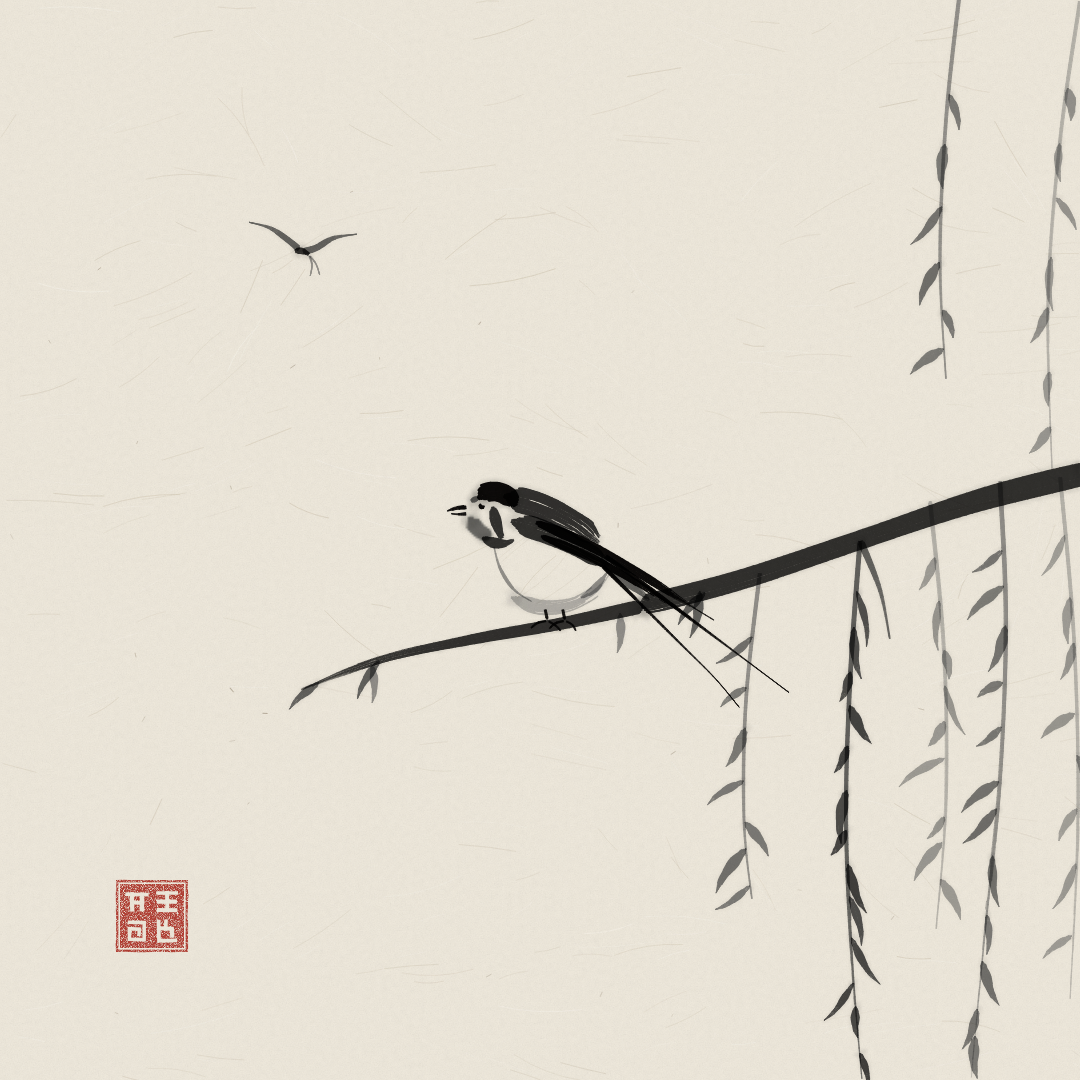
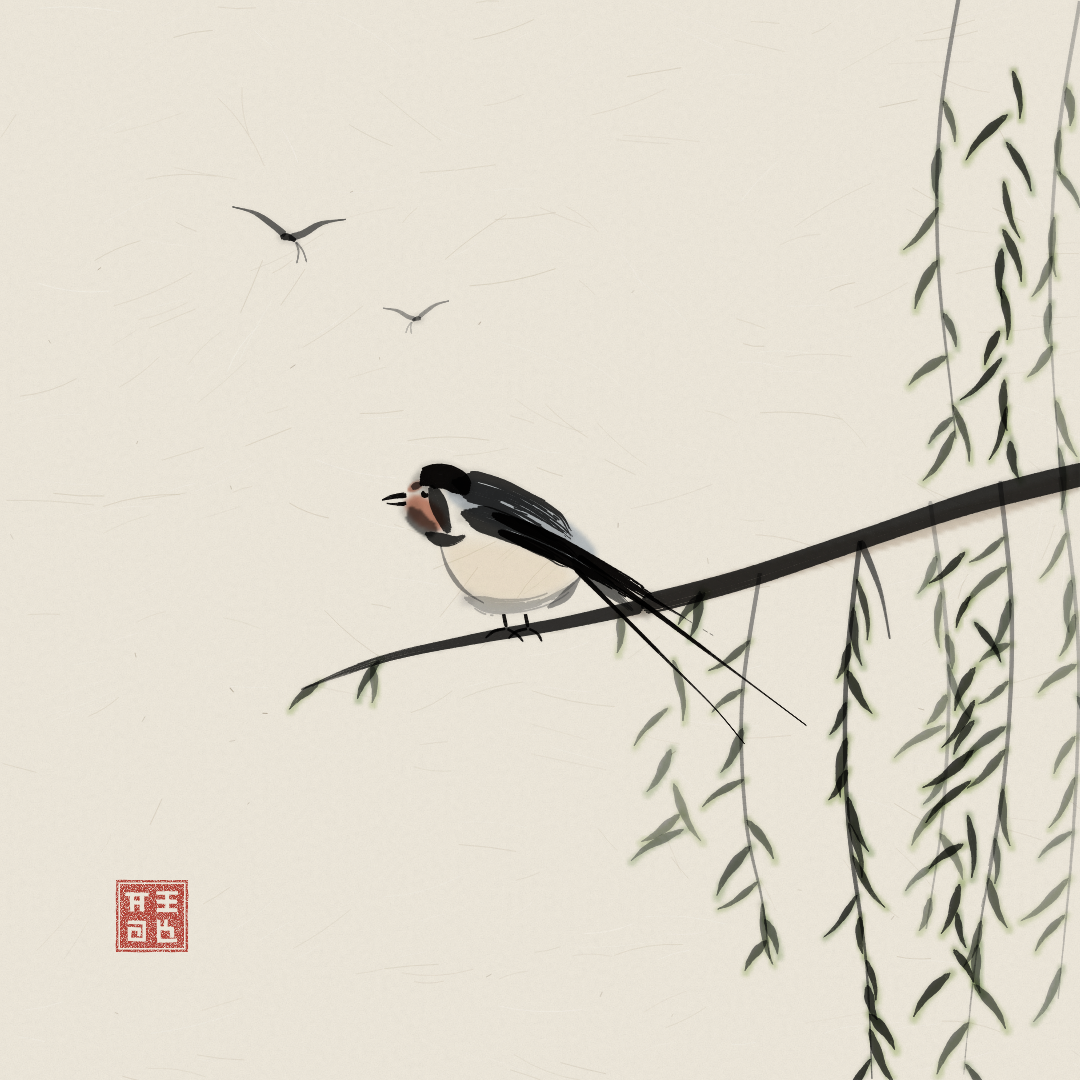
drawings: andorinha, prettier: ink-and-colour washes, a larger swallow, a fuller willow, a pair on the wing
Claude-Session: https://claude.ai/code/session_016tJsM9NHxJyZt7yjmkR2tb

diff --git a/drawings/andorinha/andorinha.ts b/drawings/andorinha/andorinha.ts
@@ -1,5 +1,6 @@
 import { Gfx, rng, fractal, type Ctx, type Env, type Medium, type P } from "./core";
 import type { Film } from "./film";
+import { bounds, smooth } from "./gallery";
 import { brush, JIAO, NONG, ZHONG, DAN, QING, type Brush } from "./sumiEKit";
 
 // ANDORINHA NO SALGUEIRO · sumi-e (ink on xuan paper), one still.
@@ -13,6 +14,9 @@ import { brush, JIAO, NONG, ZHONG, DAN, QING, type Brush } from "./sumiEKit";
 // is the seal); a dark breast band; pale buff underparts; long, pointed folded wings whose tips
 // cross past the rump; a deeply forked tail whose outer streamers run well beyond the wingtips;
 // tiny legs, short toes. In flight: scythe wings swept back, the fork open.
+// COLOUR: ink-and-colour (淡彩), the way bird-and-flower painters touch in colour: pale washes
+// laid loosely off the ink, never filling a line: chestnut on the throat and brow, a breath of
+// steel blue on the back's gloss, buff on the belly, spring green under the willow leaves.
 // ORDER (the Mustard Seed Garden order): the bough first, then the hanging willow strands
 // behind and in front, the willow leaves in quick pressed flicks, then the bird (beak, eye,
 // head, throat, back, wings, tail, belly, feet), the far swallow, and the seal last.
@@ -48,13 +52,16 @@ const BOUGH: Brush[] = [
 // hanging strands: a long falling stroke each, light ink behind, heavier in front
 type Strand = { ctrl: P[]; w: number; ink: number; seed: number };
 const STRANDS: Strand[] = [
-  { ctrl: [[1000, 480], [1006, 620], [1000, 780], [984, 940], [970, 1090]], w: 4, ink: DAN, seed: 40 },
-  { ctrl: [[930, 500], [944, 650], [946, 800], [936, 930]], w: 3.6, ink: QING, seed: 41 },
-  { ctrl: [[1060, 476], [1074, 640], [1078, 820], [1070, 1000]], w: 3.4, ink: QING, seed: 42 },
-  { ctrl: [[860, 540], [850, 680], [846, 820], [852, 960], [862, 1080]], w: 4.4, ink: ZHONG, seed: 43 },
-  { ctrl: [[760, 572], [746, 700], [744, 820], [752, 900]], w: 3.6, ink: DAN, seed: 44 },
-  { ctrl: [[1080, 0], [1060, 140], [1048, 300], [1052, 470]], w: 3.4, ink: QING, seed: 45 },
-  { ctrl: [[960, -10], [946, 120], [940, 260], [946, 380]], w: 3.4, ink: DAN, seed: 46 },
+  { ctrl: [[1000, 480], [1012, 620], [1004, 780], [978, 940], [962, 1090]], w: 4, ink: DAN, seed: 40 },
+  { ctrl: [[930, 500], [948, 650], [944, 800], [926, 930]], w: 3.6, ink: QING, seed: 41 },
+  { ctrl: [[1060, 476], [1078, 640], [1074, 820], [1058, 1000]], w: 3.4, ink: QING, seed: 42 },
+  { ctrl: [[860, 540], [846, 680], [848, 820], [866, 960], [872, 1080]], w: 4.4, ink: ZHONG, seed: 43 },
+  { ctrl: [[760, 572], [742, 700], [746, 820], [762, 900], [770, 960]], w: 3.6, ink: DAN, seed: 44 },
+  { ctrl: [[1080, 0], [1058, 140], [1050, 300], [1060, 470]], w: 3.4, ink: QING, seed: 45 },
+  { ctrl: [[960, -10], [940, 120], [938, 260], [952, 400], [956, 440]], w: 3.4, ink: DAN, seed: 46 },
+  { ctrl: [[1020, -10], [1004, 160], [1000, 330], [1012, 460]], w: 3.8, ink: ZHONG, seed: 47 },
+  { ctrl: [[680, 596], [668, 700], [674, 790], [690, 850]], w: 3, ink: QING, seed: 48 },
+  { ctrl: [[960, 506], [976, 640], [974, 760], [960, 880], [948, 1000]], w: 4, ink: ZHONG, seed: 49 },
 ];
 const strand = (s: Strand): Brush => ({ ctrl: s.ctrl, w: s.w, ink: s.ink, press: [[0, 1], [0.6, 0.8], [1, 0.25]], load: 1, dry: 0.12, edge: 0, split: 0.3, bleed: 0.5, slow: [[0.01, 0.4]], hairs: 8, seed: s.seed });
 // a willow leaf: narrow, lanceolate, one quick press-and-lift hanging off the strand
@@ -70,14 +77,14 @@ const strandLeaves = (s: Strand, count: number, from: number, to: number): Brush
     const t = from + ((to - from) * (i + r() * 0.5)) / count, seg = Math.min(s.ctrl.length - 2, Math.floor(t * (s.ctrl.length - 1))), f = t * (s.ctrl.length - 1) - seg;
     const p: P = [s.ctrl[seg][0] + (s.ctrl[seg + 1][0] - s.ctrl[seg][0]) * f, s.ctrl[seg][1] + (s.ctrl[seg + 1][1] - s.ctrl[seg][1]) * f];
     const side = r() < 0.5 ? 1 : -1, ang = 90 + side * (8 + r() * 38) + 12;
-    out.push(leaf(p, ang, 30 + r() * 30, 6.5 + r() * 4, Math.min(1, s.ink + 0.08 + r() * 0.08), s.seed * 100 + i));
+    out.push(leaf(p, ang, 36 + r() * 30, 6 + r() * 3.5, Math.min(1, s.ink + 0.08 + r() * 0.08), s.seed * 100 + i));
   }
   return out;
 };
 const LEAVES: Brush[] = [
-  ...strandLeaves(STRANDS[1], 9, 0.1, 0.95), ...strandLeaves(STRANDS[2], 8, 0.1, 0.95), ...strandLeaves(STRANDS[5], 7, 0.2, 1),
-  ...strandLeaves(STRANDS[0], 12, 0.1, 0.98), ...strandLeaves(STRANDS[4], 7, 0.15, 1), ...strandLeaves(STRANDS[6], 6, 0.25, 1),
-  ...strandLeaves(STRANDS[3], 13, 0.08, 0.98),
+  ...strandLeaves(STRANDS[1], 11, 0.1, 0.98), ...strandLeaves(STRANDS[2], 11, 0.1, 0.98), ...strandLeaves(STRANDS[5], 9, 0.2, 1), ...strandLeaves(STRANDS[8], 6, 0.2, 1),
+  ...strandLeaves(STRANDS[0], 15, 0.08, 1), ...strandLeaves(STRANDS[4], 10, 0.12, 1), ...strandLeaves(STRANDS[6], 9, 0.2, 1),
+  ...strandLeaves(STRANDS[3], 17, 0.06, 1), ...strandLeaves(STRANDS[7], 12, 0.15, 1), ...strandLeaves(STRANDS[9], 14, 0.08, 1),
   // a few leaves straight off the bough, near the bird, in heavy ink
   leaf([700, 590], 104, 50, 9, ZHONG, 300), leaf([706, 592], 128, 44, 8.5, ZHONG, 301), leaf([620, 612], 96, 42, 8, DAN, 302),
   leaf([380, 660], 118, 46, 8, ZHONG, 303), leaf([372, 664], 92, 40, 7.5, DAN, 304), leaf([320, 682], 136, 42, 7.5, ZHONG, 305),
@@ -86,9 +93,9 @@ const LEAVES: Brush[] = [
 // ---------------------------------------------------------------- the swallow
 // Authored in its own frame: origin where the toes grip the bough, x toward the tail, y up is
 // negative, facing LEFT. The body sits about 30 degrees off horizontal, tail down to the right.
-const PERCH: P = [560, 622];
-const S = 2.5;
-const LOWER = 4.5; // the body settles onto the bough: everything but the feet sits this much lower than authored
+const PERCH: P = [522, 630];
+const S = 3.1;
+const LOWER = 7; // the body settles onto the bough: everything but the feet sits this much lower than authored
 const sp = (pts: [number, number][], dy = LOWER): P[] => pts.map(([x, y]) => [PERCH[0] + x * S, PERCH[1] + (y + dy) * S]);
 const bird = (ink: number, ctrl: [number, number][], w: number, press: [number, number][], seed: number, o: Partial<Brush> = {}): Brush => ({ ctrl: sp(ctrl), w: w * S, ink, press, load: 1, dry: 0.16, edge: 0, split: 0.4, bleed: 0.5, slow: [[0.02, 0.4]], hairs: Math.max(8, Math.round(w * S * 1.1)), seed, ...o });
 const SWALLOW: Brush[] = [
@@ -103,7 +110,7 @@ const SWALLOW: Brush[] = [
   bird(ZHONG, [[-35.8, -52.6], [-34, -53.6], [-32.2, -54.2]], 2.2, [[0, 0.7], [0.5, 1], [1, 0.4]], 704, { dry: 0.1, bleed: 0.6, hairs: 8 }),
   bird(ZHONG, [[-36.2, -47], [-34.5, -43.5], [-31, -40.2], [-27, -38.8]], 5.5, [[0, 0.6], [0.3, 1], [0.8, 0.9], [1, 0.4]], 705, { dry: 0.15, bleed: 0.8, slow: [[0.1, 0.6]], wet: 0.25 }),
   // the dark cheek: the cap runs down behind the eye to meet the breast band
-  bird(NONG, [[-27, -51], [-26, -46], [-24.5, -41], [-23, -37.5]], 4, [[0, 0.6], [0.4, 1], [1, 0.5]], 708, { dry: 0.3, streak: true, split: 0.7, bleed: 0.5 }),
+  bird(NONG, [[-29.5, -54], [-27.5, -49], [-25.5, -43], [-23.5, -38]], 5, [[0, 0.6], [0.4, 1], [1, 0.5]], 708, { dry: 0.3, streak: true, split: 0.7, bleed: 0.5 }),
   // the dark breast band: a side-pressed stroke of thick ink across the chest below the throat
   bird(NONG, [[-31.5, -38.4], [-27, -36.4], [-22, -36], [-18, -37.5]], 4, [[0, 0.5], [0.4, 1], [1, 0.3]], 706, { dry: 0.35, streak: true, split: 0.7, bleed: 0.5 }),
   // the back: the brush on its side, from nape to rump, breaking into dry streaks: the gloss
@@ -120,8 +127,8 @@ const SWALLOW: Brush[] = [
   bird(JIAO, [[17, -27], [32, -12], [48, 4], [62, 18], [72, 30]], 1.4, [[0, 1], [0.3, 0.7], [1, 0.03]], 717, { dry: 0.1, split: 0.3, bleed: 0.2, slow: [], hairs: 6 }),
   // the breast and belly: one pale hairline down the front, then one clear wash along the
   // underside away from the light; the rest of the belly is bare paper
-  bird(DAN, [[-26.5, -35], [-24, -26], [-18.5, -17.5], [-11, -12.5]], 1.2, [[0, 0.3], [0.5, 1], [1, 0.2]], 718, { dry: 0.1, bleed: 0.3, slow: [], hairs: 5 }),
-  bird(QING, [[-20, -14.5], [-8, -10.5], [4, -11.5], [14, -17], [20, -24]], 5.5, [[0, 0.35], [0.2, 1], [0.75, 0.8], [1, 0.2]], 719, { load: 1, dry: 0.5, streak: true, edge: -0.2, split: 0.8, bleed: 1.1, slow: [[0.04, 1]] }),
+  bird(DAN, [[-26.5, -35], [-24, -27], [-19, -20], [-12, -15.5]], 1.2, [[0, 0.3], [0.5, 1], [1, 0.2]], 718, { dry: 0.1, bleed: 0.3, slow: [], hairs: 5 }),
+  bird(QING, [[-19, -17.5], [-8, -14.5], [4, -15.5], [14, -20], [20, -25.5]], 5, [[0, 0.35], [0.2, 1], [0.75, 0.8], [1, 0.2]], 719, { load: 1, dry: 0.5, streak: true, edge: -0.2, split: 0.8, bleed: 1.1, slow: [[0.04, 1]] }),
   // the undertail, a dry touch under the rump where the streamers leave the body
   bird(DAN, [[8, -14], [14, -18], [19, -24.5]], 3, [[0, 0.4], [0.5, 1], [1, 0.3]], 720, { dry: 0.7, streak: true, split: 0.9, bleed: 0.3 }),
 ];
@@ -133,14 +140,17 @@ const FEET: Brush[] = [
 ];
 
 // the far swallow: high in the empty sky, light ink, scythe wings swept back, fork open
-const FAR: P = [300, 250];
-const far = (ink: number, ctrl: [number, number][], w: number, press: [number, number][], seed: number): Brush => ({ ctrl: ctrl.map(([x, y]) => [FAR[0] + x, FAR[1] + y] as P), w, ink, press, load: 1, dry: 0.2, edge: 0, split: 0.4, bleed: 0.4, slow: [[0.02, 0.4]], hairs: 10, seed });
-const FLYER: Brush[] = [
-  far(ZHONG, [[0, 0], [-12, -10], [-30, -22], [-52, -28]], 6, [[0, 1], [0.3, 0.9], [1, 0.03]], 800),   // the far wing, swept up and back
-  far(ZHONG, [[2, 2], [16, -2], [34, -12], [58, -16]], 6.5, [[0, 1], [0.3, 0.9], [1, 0.03]], 801),      // the near wing
-  far(NONG, [[-6, 2], [0, 0.5], [6, 2.5], [10, 5]], 6, [[0, 0.8], [0.4, 1], [1, 0.5]], 802),             // head and body
-  far(DAN, [[9, 5], [16, 14], [20, 26]], 1.5, [[0, 1], [1, 0.05]], 803), far(DAN, [[9, 5], [12, 15], [10, 27]], 1.4, [[0, 1], [1, 0.05]], 804), // the forked tail
-];
+const flyer = (at: P, k: number, flip: number, ink: number, seed: number): Brush[] => {
+  const far = (dk: number, ctrl: [number, number][], w: number, press: [number, number][], s: number): Brush => ({ ctrl: ctrl.map(([x, y]) => [at[0] + x * k * flip, at[1] + y * k] as P), w: w * k, ink: Math.min(1, ink + dk), press, load: 1, dry: 0.2, edge: 0, split: 0.4, bleed: 0.4, slow: [[0.02, 0.4]], hairs: 10, seed: seed + s });
+  return [
+    far(0, [[0, 0], [-12, -10], [-30, -22], [-52, -28]], 6, [[0, 1], [0.3, 0.9], [1, 0.03]], 0),   // the far wing, swept up and back
+    far(0, [[2, 2], [16, -2], [34, -12], [58, -16]], 6.5, [[0, 1], [0.3, 0.9], [1, 0.03]], 1),      // the near wing
+    far(0.22, [[-6, 2], [0, 0.5], [6, 2.5], [10, 5]], 6, [[0, 0.8], [0.4, 1], [1, 0.5]], 2),         // head and body
+    far(-0.22, [[9, 5], [16, 14], [20, 26]], 1.5, [[0, 1], [1, 0.05]], 3), far(-0.22, [[9, 5], [12, 15], [10, 27]], 1.4, [[0, 1], [1, 0.05]], 4), // the forked tail
+  ];
+};
+// a pair still on the wing: the nearer one in heavy ink, the farther one smaller, paler, banking the other way
+const FLYERS: Brush[] = [...flyer([286, 236], 1.05, 1, ZHONG, 800), ...flyer([418, 318], 0.62, -1, DAN, 820)];
 
 // ---------------------------------------------------------------- the seal
 const SEAL = { x: 116, y: 880, s: 72 };
@@ -167,6 +177,23 @@ const seal = (g: Gfx) => {
   }, { blend: "multiply", alpha: 1, textures: ["risoSpeck"] });
 };
 
+// ---------------------------------------------------------------- the colour
+// a pale wash laid loosely off the ink, soft-edged where the wet colour met dry paper
+const tint = (g: Gfx, pts: P[], color: string, alpha: number, blur = 2.2) => g.group("plain", () => {
+  const k = g.cur, sh = smooth(pts, true, 8), b = bounds(sh); k.fillStyle = color; k.beginPath(); sh.forEach(([x, y], i) => (i ? k.lineTo(x, y) : k.moveTo(x, y))); k.closePath(); k.fill(); g.touch(b.x0 - 4, b.y0 - 4, b.x1 + 4, b.y1 + 4);
+}, { blend: "multiply", alpha, blur });
+// spring green under a leaf: a round stroke along it, nudged off the ink line as a painter's colour is
+const leafTint = (g: Gfx, b: Brush, i: number) => g.group("plain", () => {
+  const k = g.cur, sh = smooth(b.ctrl, false, 6).map(([x, y]) => [x + 1.2, y + 0.8] as P), bb = bounds(sh);
+  k.strokeStyle = i % 3 ? "#9cb86a" : "#7d9f62"; k.lineWidth = b.w * 0.95; k.lineCap = "round"; k.lineJoin = "round"; k.beginPath(); sh.forEach(([x, y], j) => (j ? k.lineTo(x, y) : k.moveTo(x, y))); k.stroke(); g.touch(bb.x0 - b.w, bb.y0 - b.w, bb.x1 + b.w, bb.y1 + b.w);
+}, { blend: "multiply", alpha: 0.22 + 0.32 * b.ink, blur: 2.2 });
+const birdColour = (g: Gfx) => {
+  tint(g, sp([[-37.5, -48.5], [-36.5, -44], [-33, -40.5], [-28, -39], [-24.5, -41], [-26, -45.5], [-30, -49], [-34, -50.5]]), "#a8482a", 0.62, 2.4); // the chestnut throat
+  tint(g, sp([[-37, -52], [-35.5, -54.3], [-33, -55], [-32.5, -53], [-35, -51.5]]), "#a8482a", 0.55, 1.6);                                         // and the brow over the bill
+  tint(g, sp([[-25, -34], [-16, -36], [0, -34], [12, -29], [16, -23], [6, -17.5], [-8, -15.5], [-18, -19], [-23, -26]]), "#e7cda0", 0.24, 5);           // buff belly
+  tint(g, sp([[-22, -56], [-6, -53], [12, -44], [24, -32], [16, -28], [0, -36], [-16, -44], [-24, -50]]), "#3e5f8a", 0.32, 3);                     // steel-blue gloss
+};
+
 export const drawAndorinha = (ctx: Ctx, _frame: number, env: Env) => {
   const g = new Gfx(ctx, env, 0, SUMI_M);
   ground(g);
@@ -177,9 +204,12 @@ export const drawAndorinha = (ctx: Ctx, _frame: number, env: Env) => {
   [1, 2, 5, 6, 0, 4].forEach((i) => brush(g, strand(STRANDS[i])));
   BOUGH.forEach((b) => brush(g, b));
   brush(g, strand(STRANDS[3]));
+  LEAVES.forEach((b, i) => leafTint(g, b, i));
   LEAVES.forEach((b) => brush(g, b));
+  tint(g, [[640, 600], [860, 536], [1090, 468], [1090, 486], [860, 556], [640, 616]], "#7a5a3c", 0.25, 2); // a little warmth in the bark
+  birdColour(g);
   [...SWALLOW, ...FEET].forEach((b) => brush(g, b));
-  FLYER.forEach((b) => brush(g, b));
+  FLYERS.forEach((b) => brush(g, b));
   seal(g);
   g.pop();
   g.paper("paper", 0.1); g.paper("coldpress", 0.045);

diff --git a/drawings/andorinha/README.md b/drawings/andorinha/README.md
@@ -1,7 +1,8 @@
 # Andorinha no salgueiro
 
 Uma andorinha-das-chaminés pousada num ramo de salgueiro, a olhar para outra que ainda voa,
-pintada em sumi-e (tinta sobre papel xuan) com o motor anidoodle. Tudo é código: cada pincelada
+pintada em sumi-e (tinta sobre papel xuan) com toques leves de cor, à maneira da pintura de
+aves e flores: castanho na garganta, azul-aço no dorso, verde de primavera no salgueiro. Tudo é código: cada pincelada
 é uma função, sem imagens geradas.
 
 ![andorinha](andorinha.png)
